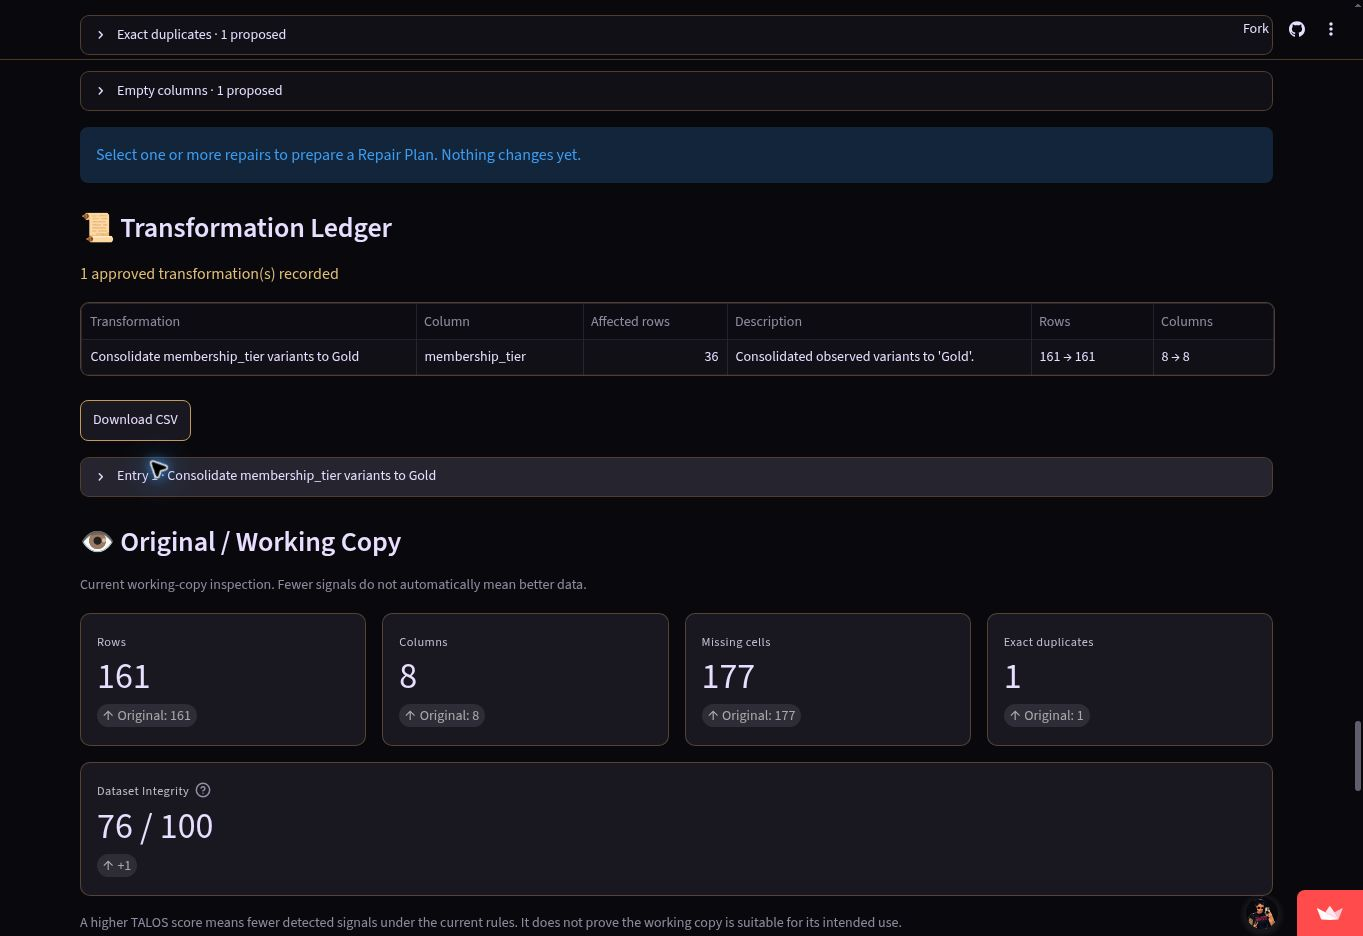
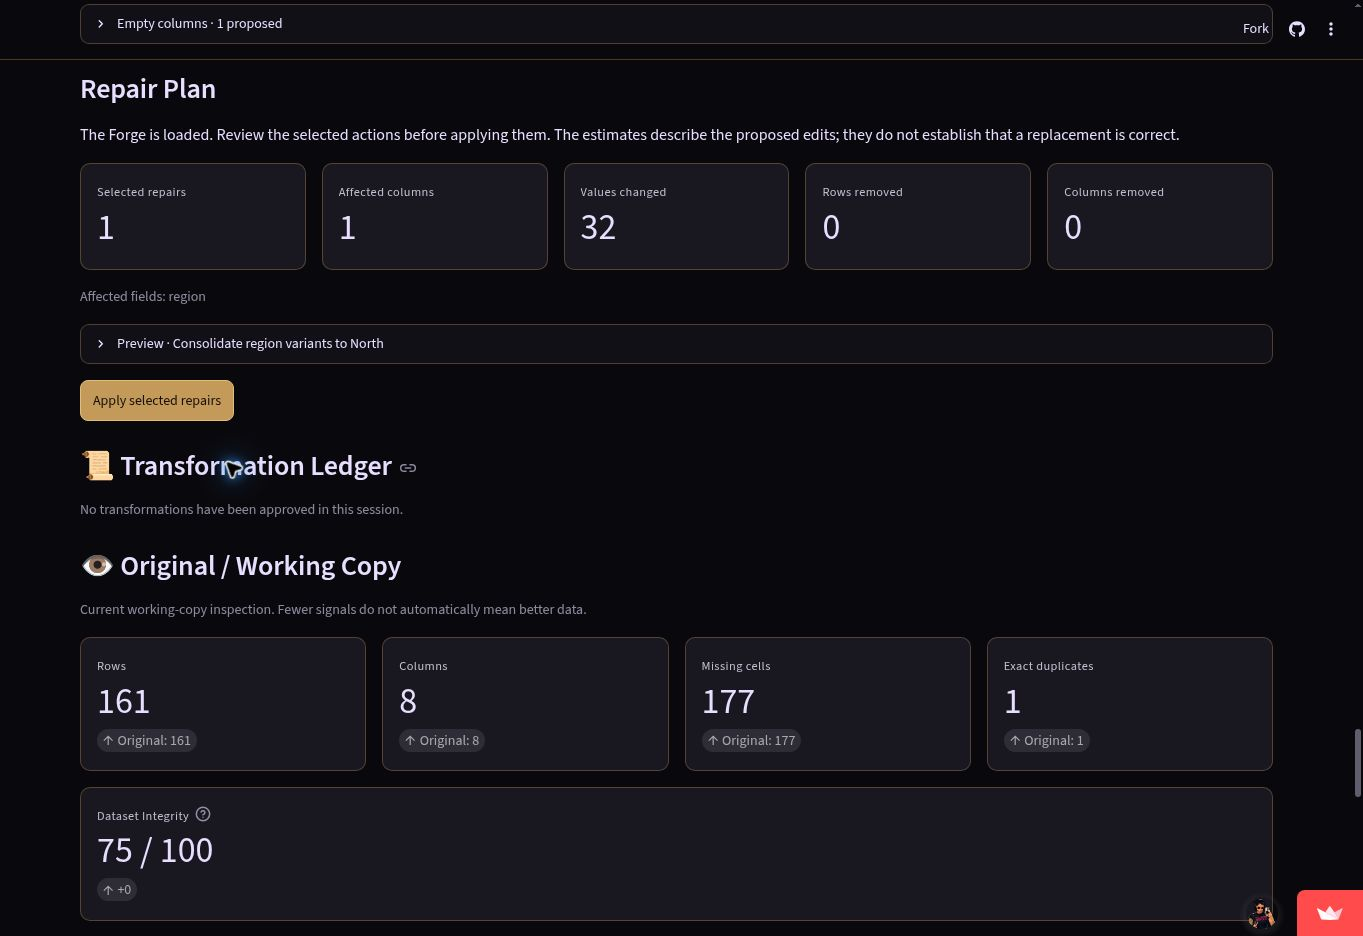
Refine TALOS portfolio screenshot gallery

diff --git a/README.md b/README.md
@@ -16,11 +16,15 @@ Screenshots use the built-in synthetic demo data.
 
 ![TALOS first-run upload screen and workflow guide](assets/screenshots/talos-landing-20260925.jpg)
 
-![TALOS dataset inspection and integrity score](assets/screenshots/talos-demo-overview-20260925.jpg)
+![TALOS synthetic dataset profile and column structure](assets/screenshots/talos-demo-overview-20260925.jpg)
 
-| The Forge | Evidence Vault |
+![TALOS Dataset Integrity Score with component weights and limitations](assets/screenshots/talos-demo-score-20260925.jpg)
+
+| The Forge | Reinspection |
 | --- | --- |
-| ![Selected repair plan and working-copy comparison](assets/screenshots/talos-demo-forge-20260925.jpg) | ![Portable inspection evidence and report exports](assets/screenshots/talos-demo-evidence-20260925.jpg) |
+| ![One category repair selected in the Repair Plan, awaiting approval](assets/screenshots/talos-demo-forge-20260925.jpg) | ![Approved repair recorded, then reinspected and compared with the original](assets/screenshots/talos-demo-reinspection-20260925.jpg) |
+
+![Evidence Vault with result-table summaries, report and ZIP exports](assets/screenshots/talos-demo-evidence-20260925.jpg)
 
 The appearance preference is session-level and leaves the inspection state intact.
 
